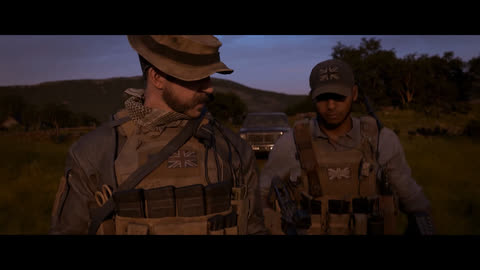
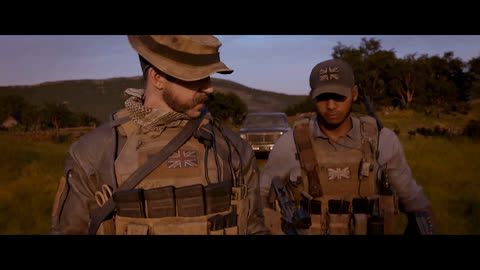
Same credits screen on both sides, and stills that can actually be seen
The Six download now asks the way Call of Duty asks: the ring expands, two
lines run out from the middle, the words land big. Only the colour differs.
The cut notice moves to its own overlay so it keeps its button.

The Call of Duty stills were there but invisible. They are night frames
measuring 8 to 99 out of 255, and the duotone was dimming them further,
down to 22 — a black box. The filter now lifts instead of dims, and the
two darkest frames carry a shadow curve baked into the file so every image
shares one treatment.

Cancel was a 30px target on a touch screen; both archives now give it 44.

diff --git a/six.html b/six.html
@@ -24,6 +24,8 @@
 
   --ink:#070605; --panel:#0f0d0a; --rule:#332813; --dim:#8a6f3e;
   --text:#d8b877; --amber:#ffb43c; --hot:#fff4dc; --red:#ff3b24;
+  --gS:0 0 8px rgba(255,180,60,.42); --gM:0 0 26px rgba(255,180,60,.36);
+  --gH:0 0 44px rgba(255,225,170,.5);
 
   --mono:Consolas,"SF Mono",ui-monospace,"Cascadia Mono",monospace;
   --disp:Bahnschrift,"DIN Condensed","Franklin Gothic Medium","Arial Narrow",sans-serif;
@@ -337,8 +339,10 @@ button{font:inherit;color:inherit;background:none;border:0;cursor:pointer}
 
 /* the button arms itself once the lines have landed */
 .ntbox .hgo{position:relative;margin-top:8px;align-self:stretch;overflow:hidden;
-  background:none;border:1px solid var(--rule);color:var(--dim);
+  justify-content:center;min-height:48px;font-size:10px;letter-spacing:.28em;
+  background:none;border:1px solid var(--rule);color:var(--dim);box-shadow:none;
   transition:background .35s,color .35s,border-color .35s}
+.ntbox .hgo:hover{box-shadow:none}
 .ntbox .hgo span{position:relative;z-index:2}
 .ntbox .hgo .fill{position:absolute;left:0;top:0;bottom:0;width:0;z-index:1;
   background:color-mix(in srgb,var(--amber) 22%,transparent)}
@@ -370,23 +374,68 @@ button{font:inherit;color:inherit;background:none;border:0;cursor:pointer}
 
 
 /* ── credits step, same as the Call of Duty side ── */
-.hit{position:fixed;inset:0;z-index:99;display:flex;align-items:center;justify-content:center;
+/* the cut notice keeps its own plain overlay */
+.ovl{position:fixed;inset:0;z-index:99;display:flex;align-items:center;justify-content:center;
   padding:calc(24px + env(safe-area-inset-top,0px))
           calc(24px + env(safe-area-inset-right,0px))
           calc(24px + env(safe-area-inset-bottom,0px))
           calc(24px + env(safe-area-inset-left,0px));
   background:color-mix(in srgb,var(--ink) 82%,transparent);
   opacity:0;visibility:hidden;transition:opacity .3s,visibility .3s}
-.hit.on{opacity:1;visibility:visible}
-.hitin{border:1px solid var(--amber);background:var(--panel);padding:clamp(26px,4vw,40px);
-  max-width:420px;width:100%;text-align:center;display:flex;flex-direction:column;gap:12px}
-.hitin strong{font-family:var(--disp);font-weight:400;font-size:clamp(24px,4vw,32px);
-  text-transform:uppercase;color:var(--hot);letter-spacing:.03em}
-.hitin span{font-size:12px;color:var(--dim)}
-.hgo{margin-top:8px;min-height:48px;background:var(--amber);color:var(--ink);
-  font-size:10px;letter-spacing:.28em;text-transform:uppercase;padding:14px 20px}
-.hno{font-size:9.5px;letter-spacing:.24em;text-transform:uppercase;color:var(--dim);padding:6px}
-.hno:hover{color:var(--text)}
+.ovl.on{opacity:1;visibility:visible}
+
+/* the credits step, matched to the Call of Duty side so both worlds ask
+   for the same thing in the same voice — only the colour changes */
+.hit{position:fixed;inset:0;z-index:99;display:grid;place-items:center;
+  padding:calc(20px + env(safe-area-inset-top,0px))
+          calc(20px + env(safe-area-inset-right,0px))
+          calc(20px + env(safe-area-inset-bottom,0px))
+          calc(20px + env(safe-area-inset-left,0px));
+  background:color-mix(in srgb,var(--ink) 80%,transparent);
+  opacity:0;visibility:hidden;pointer-events:none;
+  transition:opacity .35s,visibility 0s .35s}
+.hit.on{opacity:1;visibility:visible;pointer-events:auto;transition:opacity .2s}
+
+.hitin{display:grid;justify-items:center;gap:18px;text-align:center;padding:0 22px}
+.hitin strong{font-family:var(--disp);font-weight:400;
+  text-transform:uppercase;font-size:clamp(2.2rem,8vw,5.4rem);line-height:.9;
+  color:var(--hot);text-shadow:var(--gH);max-width:12ch;text-wrap:balance}
+.hitin span{font-size:11px;letter-spacing:.3em;text-transform:uppercase;
+  color:var(--amber);text-shadow:var(--gS)}
+.hit.on .hitin strong{animation:hitPop .65s cubic-bezier(.16,1,.3,1) both}
+.hit.on .hitin span{animation:hitUp .5s .2s both}
+@keyframes hitPop{
+  0%{opacity:0;transform:scale(.88);filter:blur(12px)}
+  100%{opacity:1;transform:scale(1);filter:blur(0)}}
+@keyframes hitUp{from{opacity:0;transform:translateY(11px)}to{opacity:1;transform:none}}
+
+.hring{position:absolute;width:130px;aspect-ratio:1;border:1px solid var(--amber);
+  border-radius:50%;opacity:0;pointer-events:none}
+.hit.on .hring{animation:hitRing 1.15s cubic-bezier(.1,.7,.3,1) both}
+@keyframes hitRing{0%{opacity:.85;transform:scale(.28)}100%{opacity:0;transform:scale(9)}}
+
+.hline{position:absolute;height:1px;width:0;background:var(--amber);
+  box-shadow:var(--gM);pointer-events:none}
+.hline.l{right:50%}
+.hline.r{left:50%}
+.hit.on .hline{animation:hitLine .85s .08s cubic-bezier(.2,.9,.2,1) both}
+@keyframes hitLine{0%{width:0;opacity:0}28%{opacity:1}100%{width:44%;opacity:0}}
+
+.hgo{display:flex;align-items:center;gap:12px;margin-top:8px;
+  font:inherit;font-size:11px;letter-spacing:.2em;text-transform:uppercase;
+  min-height:54px;padding:0 clamp(24px,4vw,38px);border:0;
+  background:var(--amber);color:var(--ink);box-shadow:var(--gM);
+  transition:background .25s,box-shadow .25s}
+.hgo i{font-size:1.15em;font-style:normal;transition:transform .3s}
+.hgo:hover{background:var(--hot);box-shadow:var(--gH)}
+.hgo:hover i{transform:translateY(3px)}
+.hno{background:none;border:0;font:inherit;font-size:9.5px;letter-spacing:.26em;
+  text-transform:uppercase;color:var(--dim);transition:color .25s;
+  min-height:44px;padding:10px 18px}
+.hno:hover{color:var(--amber)}
+.hit:not(.ask) .hgo,.hit:not(.ask) .hno{display:none}
+.hit.on.ask .hgo{animation:hitUp .45s .3s both}
+.hit.on.ask .hno{animation:hitUp .45s .42s both}
 
 /* ── in-app browsers (TikTok, Instagram…) cannot hand a file to the system
       downloader, so the only honest fix is to say so and offer the link ── */
@@ -514,7 +563,7 @@ button{font:inherit;color:inherit;background:none;border:0;cursor:pointer}
   </div>
 </div>
 
-<div class="hit" id="notice">
+<div class="ovl" id="notice">
   <div class="ntbox" role="dialog" aria-modal="true" aria-labelledby="ntT" aria-describedby="ntBody">
     <i class="ntb tl" aria-hidden="true"></i><i class="ntb tr" aria-hidden="true"></i>
     <i class="ntb bl" aria-hidden="true"></i><i class="ntb br" aria-hidden="true"></i>
@@ -547,10 +596,13 @@ button{font:inherit;color:inherit;background:none;border:0;cursor:pointer}
 </div>
 
 <div class="hit" id="hit">
+  <i class="hring" aria-hidden="true"></i>
+  <i class="hline l" aria-hidden="true"></i>
+  <i class="hline r" aria-hidden="true"></i>
   <div class="hitin" role="dialog" aria-modal="true" aria-labelledby="hitT">
     <strong id="hitT">Remember to give credits</strong>
     <span id="hitS">Season 1, episode 1</span>
-    <button class="hgo" id="hitGo" type="button">Start download</button>
+    <button class="hgo" id="hitGo" type="button">Start download <i aria-hidden="true">↓</i></button>
     <button class="hno" id="hitNo" type="button">Cancel</button>
   </div>
 </div>
@@ -749,16 +801,18 @@ var hit = document.getElementById("hit"), hitS = document.getElementById("hitS")
 function ask(b){
   pending = b;
   hitS.textContent = "Season " + b.dataset.season + ", episode " + b.dataset.ep;
-  hit.classList.add("on");
-  setTimeout(function(){ if (pending) hitGo.focus(); }, 60);
+  hit.classList.remove("on","ask"); void hit.offsetWidth;   /* replay the ring */
+  hit.classList.add("on","ask");
+  setTimeout(function(){ if (pending) hitGo.focus(); }, 320);
 }
-function closeHit(){ pending = null; hit.classList.remove("on"); }
+function closeHit(){ pending = null; hit.classList.remove("on","ask"); }
 hitGo.addEventListener("click", function(){
   if (!pending) return;
   var b = pending;
   closeHit();
-  /* released assets carry Content-Disposition: attachment, so this saves
-     the file rather than opening a tab */
+  /* the file lives on github.com while the page is on github.io, so the
+     download attribute is ignored — what actually saves it is the
+     Content-Disposition: attachment header the release serves */
   var a = document.createElement("a");
   a.href = b.dataset.url; a.download = ""; a.rel = "noopener";
   document.body.appendChild(a); a.click(); a.remove();

diff --git a/cod.html b/cod.html
@@ -230,8 +230,8 @@ main > section:first-of-type{padding-top:clamp(72px,11vh,116px)}
 .hgo:hover{background:var(--hot);box-shadow:var(--gH)}
 .hgo:hover i{transform:translateY(3px)}
 .hno{background:none;border:0;font:inherit;font-size:9.5px;letter-spacing:.26em;
-  text-transform:uppercase;color:var(--dim);cursor:none;padding:8px 6px;
-  transition:color .25s}
+  text-transform:uppercase;color:var(--dim);cursor:none;
+  min-height:44px;padding:10px 18px;transition:color .25s}
 .hno:hover{color:var(--phos)}
 .hit:not(.ask) .hgo,.hit:not(.ask) .hno{display:none}
 .hit.on.ask .hgo{animation:hitUp .45s .3s both}
@@ -294,15 +294,19 @@ main > section:first-of-type{padding-top:clamp(72px,11vh,116px)}
    of the optic so it reads as footage seen through the tube */
 .pkshot{display:block;width:100%;aspect-ratio:16/9;overflow:hidden;line-height:0;
   background:var(--tube);border-bottom:1px solid var(--rule)}
+/* these are night scenes: the source frames measure 8 to 99 out of 255, so
+   the duotone has to lift them, not dim them, or they read as black boxes */
 .pkshot img{display:block;width:100%;height:100%;object-fit:cover;
-  filter:grayscale(1) contrast(1.12) brightness(.72);
+  filter:grayscale(1) contrast(.95) brightness(2.3);
   transition:filter .45s ease,transform .6s cubic-bezier(.2,.8,.2,1)}
-.pk:hover .pkshot img{filter:grayscale(1) contrast(1.16) brightness(1);transform:scale(1.045)}
+.pk:hover .pkshot img{filter:grayscale(1) contrast(1) brightness(2.9);transform:scale(1.045)}
 .pkshot .tint{position:absolute;inset:0;background:var(--phos);
   mix-blend-mode:color;opacity:.9;pointer-events:none}
+/* only a hairline fade into the panel below — the caption sits under the
+   frame, not on it, so there is nothing to darken for legibility */
 .pkshot::after{content:"";position:absolute;inset:0;pointer-events:none;
-  background:linear-gradient(to bottom,transparent 48%,
-    color-mix(in srgb,var(--panel) 88%,transparent))}
+  background:linear-gradient(to bottom,transparent 82%,
+    color-mix(in srgb,var(--panel) 55%,transparent))}
 .pkin{display:flex;flex-direction:column;flex:1;padding:clamp(18px,2vw,24px)}
 
 /* in-app browsers (TikTok, Instagram…) have no system downloader wired up,
